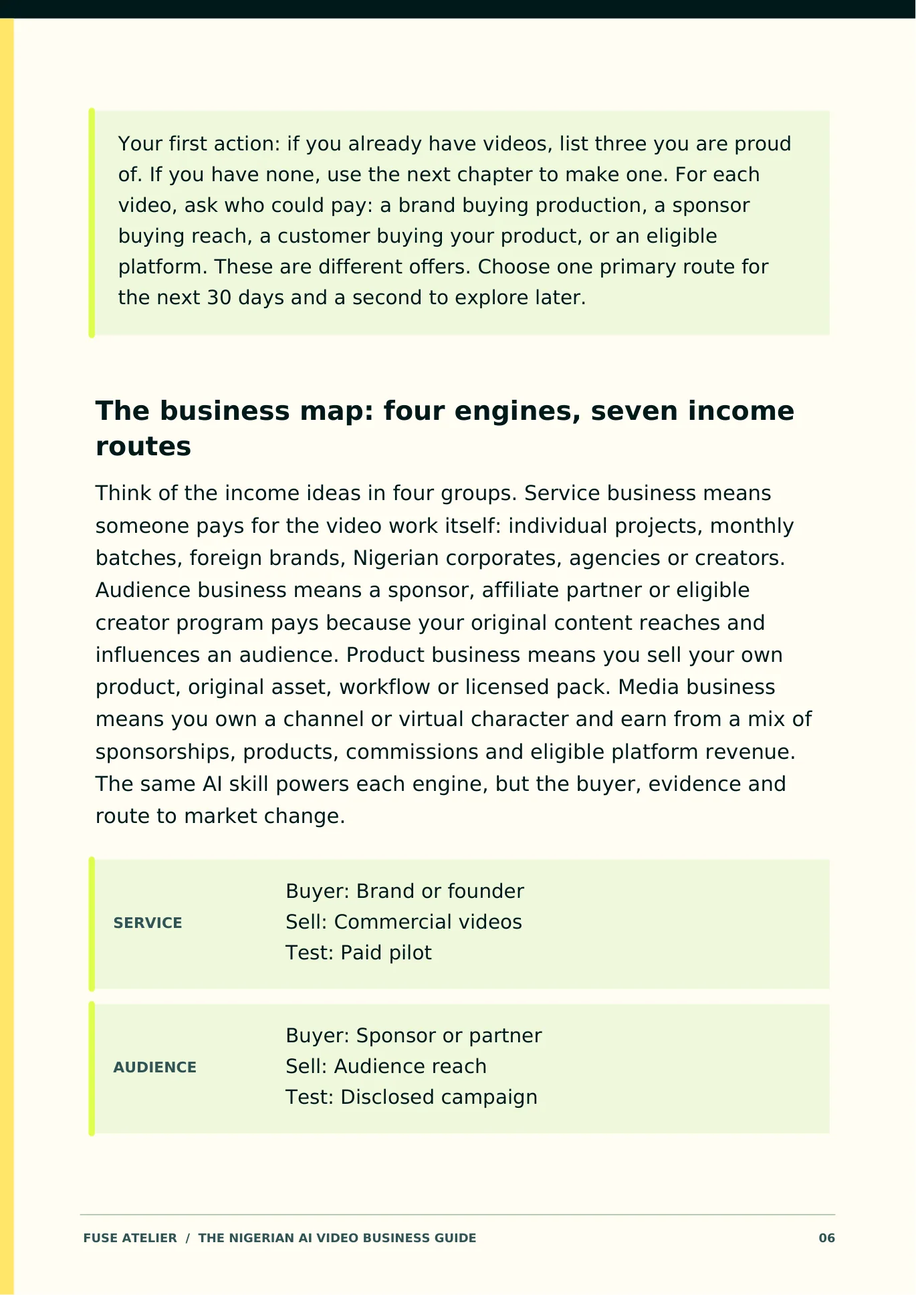
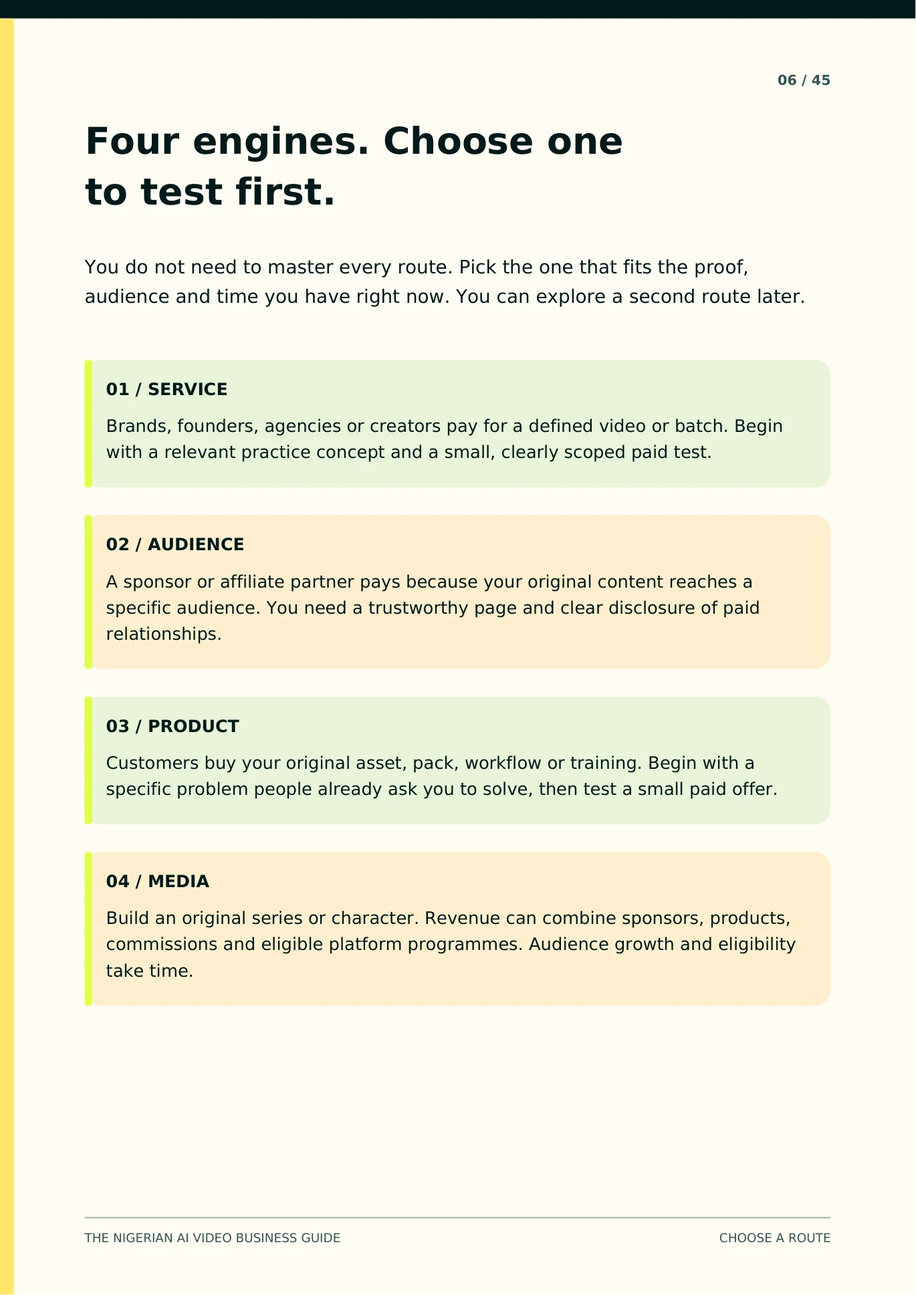
Guide ebook readers to a first result and relevant next steps

diff --git a/atelier-v2/ai-video-book-resources.html b/atelier-v2/ai-video-book-resources.html
@@ -1,1 +1,1 @@
-<!doctype html><html lang="en"><head><meta charset="utf-8"><meta name="viewport" content="width=device-width,initial-scale=1"><meta name="theme-color" content="#001012"><title>Book Resources · Fuse Atelier</title><link rel="preconnect" href="https://fonts.googleapis.com"><link rel="preconnect" href="https://fonts.gstatic.com" crossorigin><link href="https://fonts.googleapis.com/css2?family=Montserrat:wght@400;500;600;700&display=swap" rel="stylesheet"><link rel="stylesheet" href="ai-video-book-resources.css?v=1"><script src="https://cdn.jsdelivr.net/npm/@supabase/supabase-js@2.45.4/dist/umd/supabase.js" defer></script><script src="fuse-shell.js?v=footer-unified-6" defer></script><script src="ai-video-book-resources.js?v=1" defer></script></head><body data-page="academy"><header><a href="ai-video-book-home.html">← Book home</a><span>FUSE ATELIER · RESOURCES</span></header><main><p class="eyebrow">THE COMPANION WORKBOOK</p><h1>Turn the book into action.</h1><p class="lead">Practice the work, build proof and start useful conversations with real businesses.</p><p id="status" role="status">Checking your access…</p><div id="resourceContent" hidden><nav aria-label="Resources"><button data-tab="briefs" class="selected">50 practice briefs</button><button data-tab="plan">Next 30 days</button><button data-tab="pitches">DM pitches</button><button data-tab="sample">Free sample method</button><button data-tab="community">AI community</button></nav><section id="briefs" class="panel"><h2>50 client-style AI video briefs</h2><p id="disclosure" class="disclosure"></p><div class="filters"><label>Level <select id="level"><option value="All">All levels</option><option>Beginner</option><option>Intermediate</option><option>Professional</option></select></label><label>Find a brief <input id="search" type="search" placeholder="Search category, client or goal"></label></div><p id="briefCount" class="count"></p><div id="briefList" class="card-list"></div></section><section id="plan" class="panel" hidden><h2>Your next 30 days</h2><p class="disclosure">A suggested action plan. Set a sustainable pace, track what happened, then improve the weakest step.</p><div id="planList" class="card-list"></div></section><section id="pitches" class="panel" hidden><h2>Specialized DM pitches</h2><p class="disclosure">Personalize every bracket and make only claims you can support. These are conversation starters, not mass messages.</p><div id="pitchList" class="card-list"></div></section><section id="sample" class="panel" hidden><h2>The free sample method</h2><p class="disclosure">A small, permission-based sample can demonstrate your skill while protecting your time and costs.</p><ol id="sampleList"></ol></section><section id="community" class="panel" hidden><h2>Join the AI community</h2><p>Book buyers can request their community invite. Send the purchase email you used so the Fuse Atelier team can verify access and share the invite.</p><a class="community-link" href="https://wa.me/2349044558101?text=Hi%20Ria%2C%20I%20purchased%20Zero%20To%20First%2010%20Million%20With%20AI%20Video.%20I%27d%20like%20my%20AI%20community%20invite.%20My%20purchase%20email%20is%3A%20" target="_blank" rel="noopener">Request your community invite ↗</a></section></div></main></body></html>
+<!doctype html><html lang="en"><head><meta charset="utf-8"><meta name="viewport" content="width=device-width,initial-scale=1"><meta name="theme-color" content="#001012"><title>Book Resources · Fuse Atelier</title><link rel="preconnect" href="https://fonts.googleapis.com"><link rel="preconnect" href="https://fonts.gstatic.com" crossorigin><link href="https://fonts.googleapis.com/css2?family=Montserrat:wght@400;500;600;700&display=swap" rel="stylesheet"><link rel="stylesheet" href="ai-video-book-resources.css?v=2"><script src="https://cdn.jsdelivr.net/npm/@supabase/supabase-js@2.45.4/dist/umd/supabase.js" defer></script><script src="fuse-shell.js?v=footer-unified-6" defer></script><script src="ai-video-book-resources.js?v=2" defer></script></head><body data-page="academy"><header><a href="ai-video-book-home.html">← Book home</a><span>FUSE ATELIER · RESOURCES</span></header><main><p class="eyebrow">THE COMPANION WORKBOOK</p><h1>Turn the book into action.</h1><p class="lead">Practice the work, build proof and start useful conversations with real businesses.</p><p id="status" role="status">Checking your access…</p><div id="resourceContent" hidden><section class="start-path" aria-labelledby="pathTitle"><span class="path-kicker">CHOOSE YOUR STARTING POINT</span><h2 id="pathTitle">What do you need to do next?</h2><div class="path-grid"><a href="ai-video-book.html#page-8"><strong>I’m completely new</strong><span>Make a 20-second practice video first, then come back for your next brief.</span><em>Start the first-video lesson →</em></a><button id="pathProof" type="button"><strong>I can already make videos</strong><span>Choose a brief at your level and turn one video into relevant proof.</span><em>Find my practice brief →</em></button><button id="pathClients" type="button"><strong>I have work to show</strong><span>Choose a buyer, make your offer and work through the next 30 days.</span><em>Open my action plan →</em></button></div><p class="path-note">A completed concept and a clear next action are your first wins. You can use this book and every included resource without purchasing another course.</p></section><nav aria-label="Resources"><button data-tab="briefs" class="selected">50 practice briefs</button><button data-tab="plan">Next 30 days</button><button data-tab="pitches">DM pitches</button><button data-tab="sample">Free sample method</button><button data-tab="community">AI community</button></nav><section id="briefs" class="panel"><h2>50 client-style AI video briefs</h2><p id="disclosure" class="disclosure"></p><div class="filters"><label>Level <select id="level"><option value="All">All levels</option><option>Beginner</option><option>Intermediate</option><option>Professional</option></select></label><label>Find a brief <input id="search" type="search" placeholder="Search category, client or goal"></label></div><p id="briefCount" class="count"></p><div id="briefList" class="card-list"></div></section><section id="plan" class="panel" hidden><h2>Your next 30 days</h2><p class="disclosure">A suggested action plan. Set a sustainable pace, track what happened, then improve the weakest step.</p><div id="planList" class="card-list"></div></section><section id="pitches" class="panel" hidden><h2>Specialized DM pitches</h2><p class="disclosure">Personalize every bracket and make only claims you can support. These are conversation starters, not mass messages.</p><div id="pitchList" class="card-list"></div></section><section id="sample" class="panel" hidden><h2>The free sample method</h2><p class="disclosure">A small, permission-based sample can demonstrate your skill while protecting your time and costs.</p><ol id="sampleList"></ol></section><section id="community" class="panel" hidden><h2>Join the AI community</h2><p>Book buyers can request their community invite. Send the purchase email you used so the Fuse Atelier team can verify access and share the invite.</p><a class="community-link" href="https://wa.me/2349044558101?text=Hi%20Ria%2C%20I%20purchased%20Zero%20To%20First%2010%20Million%20With%20AI%20Video.%20I%27d%20like%20my%20AI%20community%20invite.%20My%20purchase%20email%20is%3A%20" target="_blank" rel="noopener">Request your community invite ↗</a></section></div></main></body></html>

diff --git a/atelier-v2/ai-video-book-resources.css b/atelier-v2/ai-video-book-resources.css
@@ -1,1 +1,2 @@
 :root{--deep:#001012;--lime:#dfff4e;--line:#315456}*{box-sizing:border-box}html{background:var(--deep)}body{margin:0;background:radial-gradient(circle at 90% 0,#1b4c52,#001012 45%);color:#fff;font-family:Montserrat,Arial,sans-serif;min-height:100vh}header{max-width:1050px;margin:auto;display:flex;gap:18px;align-items:center;padding:18px 20px;font-size:11px;letter-spacing:.12em;color:var(--lime)}header a{color:#fff;text-decoration:none;border:1px solid var(--line);padding:10px;border-radius:9px;letter-spacing:0}main{max-width:1050px;margin:32px auto 90px;padding:0 20px}.eyebrow{font-size:11px;letter-spacing:.18em;color:var(--lime);font-weight:700}h1{font-size:clamp(27px,5vw,45px);margin:12px 0}.lead{max-width:650px;line-height:1.7;color:#c9d6d0;font-size:15px}#status{color:var(--lime)}nav{display:flex;gap:8px;flex-wrap:wrap;margin:35px 0 32px}nav button{padding:12px 15px;border-radius:10px;border:1px solid var(--line);background:#062125;color:#fff;font:600 12px Montserrat;cursor:pointer}nav button.selected{color:#001012;background:linear-gradient(110deg,#ffe66a,#dfff4e,#eeffe0);border-color:var(--lime)}.panel h2{font-size:clamp(22px,4vw,30px);margin:0 0 10px}.disclosure{max-width:780px;color:#c8d8d2;line-height:1.7;font-size:13px}.filters{display:flex;gap:12px;flex-wrap:wrap;margin:25px 0}.filters label{display:grid;gap:7px;font-size:12px;color:#c9d6d0}.filters input,.filters select{min-height:43px;background:#062125;color:#fff;border:1px solid var(--line);border-radius:8px;padding:8px 12px;font:500 13px Montserrat}.filters input{min-width:min(320px,80vw)}.count{color:var(--lime);font-size:12px}.card-list{display:grid;grid-template-columns:repeat(2,minmax(0,1fr));gap:14px}.card{padding:23px;border:1px solid #315456;border-radius:15px;background:linear-gradient(145deg,#0e3437,#031a1c);box-shadow:inset 0 1px #eeffe033,0 10px 25px #0005}.card .tag{color:var(--lime);font-size:10px;font-weight:700;letter-spacing:.1em}.card h3{font-size:18px;line-height:1.35;margin:12px 0}.card p,.panel li{font-size:13px;line-height:1.7;color:#e1ebe2}.card strong{color:#fff}.card p{margin:9px 0}.panel ol{padding-left:24px;max-width:800px}.panel li{margin-bottom:16px}.community-link{display:inline-block;margin:18px 0;background:linear-gradient(110deg,#ffe66a,#dfff4e,#eeffe0);color:#001012;text-decoration:none;font-weight:700;font-size:13px;padding:15px 20px;border-radius:11px}@media(max-width:690px){.card-list{grid-template-columns:1fr}main{margin-top:16px}}
+.start-path{margin:30px 0 34px;padding:23px;border:1px solid #b0d15c;border-radius:18px;background:linear-gradient(145deg,#12373a,#062125);box-shadow:0 12px 32px #0008,0 0 25px #dfff4e24}.path-kicker{color:#dfff4e;font-size:11px;font-weight:700;letter-spacing:.13em}.start-path h2{font-size:clamp(21px,4vw,27px);line-height:1.2;margin:12px 0 20px}.path-grid{display:grid;grid-template-columns:repeat(3,minmax(0,1fr));gap:12px}.path-grid>a,.path-grid>button{display:flex;flex-direction:column;min-height:182px;gap:10px;padding:17px;text-align:left;border:1px solid #315456;border-radius:13px;background:#00191b;color:#fff;text-decoration:none;font:500 13px Montserrat,Arial,sans-serif;cursor:pointer}.path-grid strong{font-size:15px;color:#eeffe0}.path-grid span{line-height:1.5;color:#c6d6d0}.path-grid em{font-style:normal;font-weight:700;color:#dfff4e;margin-top:auto}.path-grid>a:hover,.path-grid>button:hover,.path-grid>a:focus-visible,.path-grid>button:focus-visible{border-color:#dfff4e;outline:2px solid #dfff4e66}.path-note{font-size:12px;line-height:1.6;color:#c9d6d0;margin:18px 0 0}.panel{scroll-margin-top:16px}@media(max-width:690px){.start-path{padding:16px}.path-grid{grid-template-columns:1fr}.path-grid>a,.path-grid>button{min-height:0}}

diff --git a/atelier-v2/ai-video-book-home.html b/atelier-v2/ai-video-book-home.html
@@ -1,1 +1,1 @@
-<!doctype html><html lang="en"><head><meta charset="utf-8"><meta name="viewport" content="width=device-width,initial-scale=1"><meta name="theme-color" content="#001012"><title>Book & Resources · Fuse Atelier</title><link rel="preconnect" href="https://fonts.googleapis.com"><link rel="preconnect" href="https://fonts.gstatic.com" crossorigin><link href="https://fonts.googleapis.com/css2?family=Montserrat:wght@400;500;600;700;800&display=swap" rel="stylesheet"><link rel="stylesheet" href="ai-video-book-home.css?v=2"><script src="fuse-shell.js?v=footer-unified-6" defer></script></head><body data-page="academy"><header class="book-home-top"><a href="learn.html" aria-label="Back to Academy">←</a><span>FUSE ATELIER · THE BOOKSHELF</span></header><main class="book-home-main"><div class="intro"><span class="eyebrow">THE NIGERIAN AI VIDEO BUSINESS GUIDE</span><h1>Zero To First 10 Million With AI Video</h1><p>Read the practical guide and build your next move with its companion resources.</p></div><div class="book-choices"><a class="choice" href="ai-video-book.html"><span class="choice-num">01 / THE BOOK</span><h2>Read online</h2><p>45 clear, spacious pages. Pick up where you left off and zoom in to read.</p><span class="choice-action">Open the reader ↗</span></a><a class="choice" href="ai-video-book-resources.html"><span class="choice-num">02 / THE RESOURCES</span><h2>Put it to work</h2><p>50 client-style practice briefs, your next 30 days, message templates and the free sample method.</p><span class="choice-action">Explore resources ↗</span></a></div><p class="book-home-note">Your access stays inside Fuse Atelier. Keep your account details private. You can take notes while you read.</p></main></body></html>
+<!doctype html><html lang="en"><head><meta charset="utf-8"><meta name="viewport" content="width=device-width,initial-scale=1"><meta name="theme-color" content="#001012"><title>Book & Resources · Fuse Atelier</title><link rel="preconnect" href="https://fonts.googleapis.com"><link rel="preconnect" href="https://fonts.gstatic.com" crossorigin><link href="https://fonts.googleapis.com/css2?family=Montserrat:wght@400;500;600;700;800&display=swap" rel="stylesheet"><link rel="stylesheet" href="ai-video-book-home.css?v=2"><script src="fuse-shell.js?v=footer-unified-6" defer></script></head><body data-page="academy"><header class="book-home-top"><a href="learn.html" aria-label="Back to Academy">←</a><span>FUSE ATELIER · THE BOOKSHELF</span></header><main class="book-home-main"><div class="intro"><span class="eyebrow">THE NIGERIAN AI VIDEO BUSINESS GUIDE</span><h1>Zero To First 10 Million With AI Video</h1><p>Make your first marketable practice video, choose an income route, and take a clear 30-day plan to market.</p></div><div class="book-choices"><a class="choice" href="ai-video-book.html"><span class="choice-num">01 / THE BOOK</span><h2>Read online</h2><p>45 clear, spacious pages. Pick up where you left off and zoom in to read.</p><span class="choice-action">Open the reader ↗</span></a><a class="choice" href="ai-video-book-resources.html"><span class="choice-num">02 / THE RESOURCES</span><h2>Put it to work</h2><p>Choose your starting path. Get 50 practice briefs, pitch examples, the free sample method and a 30-day plan.</p><span class="choice-action">Explore resources ↗</span></a></div><p class="book-home-note">Your access stays inside Fuse Atelier. Keep your account details private. You can take notes while you read.</p></main></body></html>

diff --git a/atelier-v2/ai-video-book.js b/atelier-v2/ai-video-book.js
@@ -37,7 +37,22 @@
       action.innerHTML='<strong>Keep learning with other AI creators</strong><p>Join Ria’s AI community for ideas and conversations as you work through the guide.</p><a href="https://chat.whatsapp.com/KKbt2aqTSP9D0YgcODf7Sy?s=cl&amp;p=a&amp;mlu=4&amp;ilr=4" target="_blank" rel="noopener noreferrer">Join the AI community ↗</a>';
       action.hidden=false;
     }else if(n<=10){
-      action.innerHTML='<strong>Enjoyed your first video exercise?</strong><p>Learn AI UGC and creator-style videos more deeply in the AI UGC &amp; Influencer course for ₦4,900.</p><a href="https://nestuge.com/academy_ugc_offer" target="_blank" rel="noopener noreferrer">Explore the AI UGC course ↗</a>';
+      action.innerHTML='<strong>Your first win: finish one 20-second spec concept</strong><p>Use the brief, script, edit and quality check on pages 8–10. The book gives you enough to complete this exercise. If creator-style video is the skill you want to develop further, explore the full AI UGC course for ₦4,900.</p><a href="https://nestuge.com/academy_ugc_offer" target="_blank" rel="noopener noreferrer">Explore the AI UGC course ↗</a>';
+      action.hidden=false;
+    }else if(n===16){
+      action.innerHTML='<strong>Choose one route for your next 30 days</strong><p>Client projects, audience partnerships and selling your own products need different proof. Pick a buyer and one small test instead of trying all seven routes at once.</p><a href="ai-video-book-resources.html?tab=plan">Open the 30-day plan →</a>';
+      action.hidden=false;
+    }else if(n===18){
+      action.innerHTML='<strong>Build proof for the buyer you chose</strong><p>Choose one practice brief, create a clearly labelled concept, then check the product details, claims and final export before adding it to your portfolio.</p><a href="ai-video-book-resources.html?tab=briefs">Choose a practice brief →</a>';
+      action.hidden=false;
+    }else if(n===22){
+      action.innerHTML='<strong>Launch a simple, working portfolio</strong><p>Use your real videos and case studies. Test playback and the contact button on another phone. Your first page can be simple; the Landing Page course is available if you want to build more professionally.</p><a href="https://nestuge.com/academy_landing_page" target="_blank" rel="noopener noreferrer">Explore the Landing Page course ↗</a>';
+      action.hidden=false;
+    }else if(n===29){
+      action.innerHTML='<strong>Turn your offer into conversations</strong><p>Use the ask-first and sample-first examples in your included resources. If you want daily tasks and personal review as you practice outreach, the 14-Day AI Client Challenge is the supported next step.</p><a href="ai-video-book-resources.html?tab=pitches">Use the included pitch examples →</a><a class="secondary-action" href="https://nestuge.com/challenge_academy_offer" target="_blank" rel="noopener noreferrer">Explore the 14-Day Challenge ↗</a>';
+      action.hidden=false;
+    }else if(n===41||n===45){
+      action.innerHTML='<strong>Put your next 30 days into motion</strong><p>Choose one buyer, make two relevant proofs, publish a portfolio, research prospects, start conversations and review what happens. A paid client is a goal, not a promised deadline.</p><a href="ai-video-book-resources.html?tab=plan">Open your action plan →</a>';
       action.hidden=false;
     }else{action.hidden=true;action.replaceChildren()}
     cue.hidden=action.hidden;peek.hidden=true;

diff --git a/atelier-v2/ai-video-book-resources.js b/atelier-v2/ai-video-book-resources.js
@@ -10,6 +10,15 @@
     $('planList').replaceChildren(...data.plan.map(p=>card('DAYS '+p.days,p.focus,[['Your move:',p.action]])));
     $('pitchList').replaceChildren(...data.pitches.map(p=>card('MESSAGE TEMPLATE',p.name,[['Customize:',p.message]])));
     $('sampleList').replaceChildren(...data.sample_method.map(step=>el('li','',step)));
-    document.querySelectorAll('nav button').forEach(button=>button.onclick=()=>{document.querySelectorAll('nav button').forEach(b=>b.classList.toggle('selected',b===button));document.querySelectorAll('.panel').forEach(p=>p.hidden=p.id!==button.dataset.tab)});
+    function selectTab(id){
+      document.querySelectorAll('nav button').forEach(b=>b.classList.toggle('selected',b.dataset.tab===id));
+      document.querySelectorAll('.panel').forEach(p=>p.hidden=p.id!==id);
+      document.getElementById(id).scrollIntoView({behavior:'smooth',block:'start'});
+    }
+    document.querySelectorAll('nav button').forEach(button=>button.onclick=()=>selectTab(button.dataset.tab));
+    $('pathProof').onclick=()=>{selectTab('briefs');$('level').value='All';draw();$('level').focus({preventScroll:true})};
+    $('pathClients').onclick=()=>selectTab('plan');
+    const requested=new URLSearchParams(location.search).get('tab');
+    if(['briefs','plan','pitches','sample','community'].includes(requested))selectTab(requested);
   }catch(e){$('status').textContent=e.message||'Could not open the resources.'}
 })();

diff --git a/atelier-v2/ai-video-book.html b/atelier-v2/ai-video-book.html
@@ -8,10 +8,10 @@
   <link rel="preconnect" href="https://fonts.googleapis.com">
   <link rel="preconnect" href="https://fonts.gstatic.com" crossorigin>
   <link href="https://fonts.googleapis.com/css2?family=Montserrat:wght@400;500;600;700&display=swap" rel="stylesheet">
-  <link rel="stylesheet" href="ai-video-book.css?v=5">
+  <link rel="stylesheet" href="ai-video-book.css?v=6">
   <script src="https://cdn.jsdelivr.net/npm/@supabase/supabase-js@2.45.4/dist/umd/supabase.js" defer></script>
   <script src="fuse-shell.js?v=footer-unified-6" defer></script>
-  <script src="ai-video-book.js?v=6" defer></script>
+  <script src="ai-video-book.js?v=7" defer></script>
 </head>
 <body data-page="academy">
   <header class="book-top">

diff --git a/atelier-v2/ai-video-book.css b/atelier-v2/ai-video-book.css
@@ -23,3 +23,5 @@
 html{scrollbar-color:#dfff4e #062125;scrollbar-width:auto}
 ::-webkit-scrollbar{width:10px}::-webkit-scrollbar-track{background:#062125}::-webkit-scrollbar-thumb{background:#dfff4e;border-radius:9px}
 @media(prefers-reduced-motion:reduce){.action-peek{animation:none}}
+.book-action a.secondary-action{margin:10px 0 0 9px;border:1px solid #dfff4e;background:transparent;color:#dfff4e}
+@media(max-width:520px){.book-action a.secondary-action{margin-left:0;display:flex;width:max-content;max-width:100%}}

diff --git a/scripts/build-ai-video-start-pages.py b/scripts/build-ai-video-start-pages.py
@@ -1,0 +1,91 @@
+"""Rebuild protected ebook pages 5-7 around a practical first outcome."""
+from pathlib import Path
+import io
+import fitz
+from PIL import Image
+from reportlab.pdfgen import canvas
+from reportlab.lib.colors import HexColor
+from reportlab.pdfbase import pdfmetrics
+from reportlab.pdfbase.ttfonts import TTFont
+
+ROOT=Path(__file__).resolve().parents[1]
+OUT=ROOT/'scripts/ai-video-start-pages.pdf'
+ASSETS=ROOT/'server/functions/assets/ai-video-book'
+W,H=595.28,841.89
+TEAL='#00191B';MUTED='#315456';PAPER='#FFFDF2';LIME='#DFFF4E';YELLOW='#FFE66A'
+pdfmetrics.registerFont(TTFont('Fuse','/usr/share/fonts/truetype/dejavu/DejaVuSans.ttf'))
+pdfmetrics.registerFont(TTFont('FuseBold','/usr/share/fonts/truetype/dejavu/DejaVuSans-Bold.ttf'))
+
+def wrap(text,width,font='Fuse',size=11.8):
+    lines=[];line=''
+    for word in text.split():
+        next_line=(line+' '+word).strip()
+        if line and pdfmetrics.stringWidth(next_line,font,size)>width:
+            lines.append(line);line=word
+        else:line=next_line
+    if line:lines.append(line)
+    return lines
+
+def text(c,body,x,y,width=485,size=11.8,leading=18,font='Fuse',color=TEAL):
+    c.setFillColor(HexColor(color));c.setFont(font,size)
+    for line in wrap(body,width,font,size):c.drawString(x,y,line);y-=leading
+    return y
+
+def base(c,n,footer):
+    c.setFillColor(HexColor(PAPER));c.rect(0,0,W,H,fill=1,stroke=0)
+    c.setFillColor(HexColor(TEAL));c.rect(0,H-12,W,12,fill=1,stroke=0)
+    c.setFillColor(HexColor(LIME if n%2 else YELLOW));c.rect(0,0,9,H-12,fill=1,stroke=0)
+    c.setFillColor(HexColor(MUTED));c.setFont('FuseBold',9);c.drawRightString(W-55,H-55,f'{n:02} / 45')
+    c.setStrokeColor(HexColor('#A7C0A4'));c.line(55,50,W-55,50)
+    c.setFont('Fuse',8);c.drawString(55,34,'THE NIGERIAN AI VIDEO BUSINESS GUIDE');c.drawRightString(W-55,34,footer)
+
+def title(c,one,two):
+    c.setFillColor(HexColor(TEAL));c.setFont('FuseBold',24);c.drawString(55,H-100,one);c.drawString(55,H-133,two)
+    return H-178
+
+def card(c,y,label,body,bg='#EAF5D8'):
+    lines=wrap(body,449,'Fuse',11.2);height=49+17*len(lines)
+    c.setFillColor(HexColor(bg));c.roundRect(55,y-height,485,height,10,fill=1,stroke=0)
+    c.setFillColor(HexColor(LIME));c.roundRect(55,y-height,5,height,2,fill=1,stroke=0)
+    c.setFillColor(HexColor(TEAL));c.setFont('FuseBold',11);c.drawString(69,y-23,label)
+    yy=y-47;c.setFont('Fuse',11.2)
+    for line in lines:c.drawString(69,yy,line);yy-=17
+    return y-height-18
+
+def section(c,y,label,body):
+    c.setFillColor(HexColor(TEAL));c.setFont('FuseBold',12);c.drawString(55,y,label)
+    return text(c,body,55,y-26,size=11.3,leading=18)-20
+
+c=canvas.Canvas(str(OUT),pagesize=(W,H),pageCompression=1)
+base(c,5,'START HERE')
+y=title(c,'Start here: make something','you can actually show')
+y=text(c,'Welcome. You can begin with a phone and no previous AI video work. In this guide, you will make one 20-second practice video, choose an income route, build buyer-relevant proof and plan your next 30 days.',55,y,size=12.4,leading=20)-22
+y=card(c,y,'YOUR FIRST WIN','Complete one polished, clearly labelled spec concept. Write a short case study explaining the idea, what you made and the buyer it could help. Start on page 8.')
+y=section(c,y,'Then build a business around that skill','Choose who pays you: a client buying video production, a sponsor buying access to your audience, a customer buying your product, or a partner paying commission. Each route requires different proof and a different way to reach buyers.')
+y=card(c,y,'WHAT THE TITLE MEANS','First ₦10 million means cumulative gross revenue your creator business might build across many sales. It is a planning target, not a guaranteed result or take-home profit. Costs, fees, revisions and taxes reduce what you keep.','#FFF0CE')
+assert y>65,y
+c.showPage()
+
+base(c,6,'CHOOSE A ROUTE')
+y=title(c,'Four engines. Choose one','to test first.')
+y=text(c,'You do not need to master every route. Pick the one that fits the proof, audience and time you have right now. You can explore a second route later.',55,y,size=12.1,leading=19)-18
+y=card(c,y,'01 / SERVICE','Brands, founders, agencies or creators pay for a defined video or batch. Begin with a relevant practice concept and a small, clearly scoped paid test.')
+y=card(c,y,'02 / AUDIENCE','A sponsor or affiliate partner pays because your original content reaches a specific audience. You need a trustworthy page and clear disclosure of paid relationships.','#FFF0CE')
+y=card(c,y,'03 / PRODUCT','Customers buy your original asset, pack, workflow or training. Begin with a specific problem people already ask you to solve, then test a small paid offer.')
+y=card(c,y,'04 / MEDIA','Build an original series or character. Revenue can combine sponsors, products, commissions and eligible platform programmes. Audience growth and eligibility take time.','#FFF0CE')
+assert y>65,y
+c.showPage()
+
+base(c,7,'YOUR FIRST ACTION')
+y=title(c,'Your next 48 hours:','one video, one direction.')
+y=section(c,y,'If you are completely new','Turn to page 8. Follow the 20-second product brief using a real product photo or a permitted practice asset. You can complete the exercise with a phone and a video editor. Mark the result as a spec concept.')
+y=section(c,y,'If you already make videos','Choose your strongest three. For each, write the buyer it could help, the objective, your role, what looks convincing and what you would improve. Pick the most relevant one to refine.')
+y=card(c,y,'YOUR ACTION CHECKLIST','1. Finish or select one strong video. 2. Name the buyer and the business problem. 3. Write a four-part case study: brief, approach, deliverable and what it demonstrates. 4. Choose one primary income route for 30 days.')
+y=card(c,y,'EVERYTHING YOU NEED TO PRACTICE','The companion resources include 50 briefs sorted by level, DM examples, a permission-based free-sample method and a 30-day plan. Use them in Fuse Atelier as you read. You can make progress without buying another course.','#FFF0CE')
+assert y>65,y
+c.showPage();c.save()
+pdf=fitz.open(OUT)
+for i,p in enumerate(pdf,5):
+    pix=p.get_pixmap(matrix=fitz.Matrix(2.3,2.3),alpha=False)
+    Image.open(io.BytesIO(pix.tobytes('png'))).convert('RGB').save(ASSETS/f'{i:02}.webp','WEBP',quality=87,method=6)
+print('Updated ebook pages 05-07')
